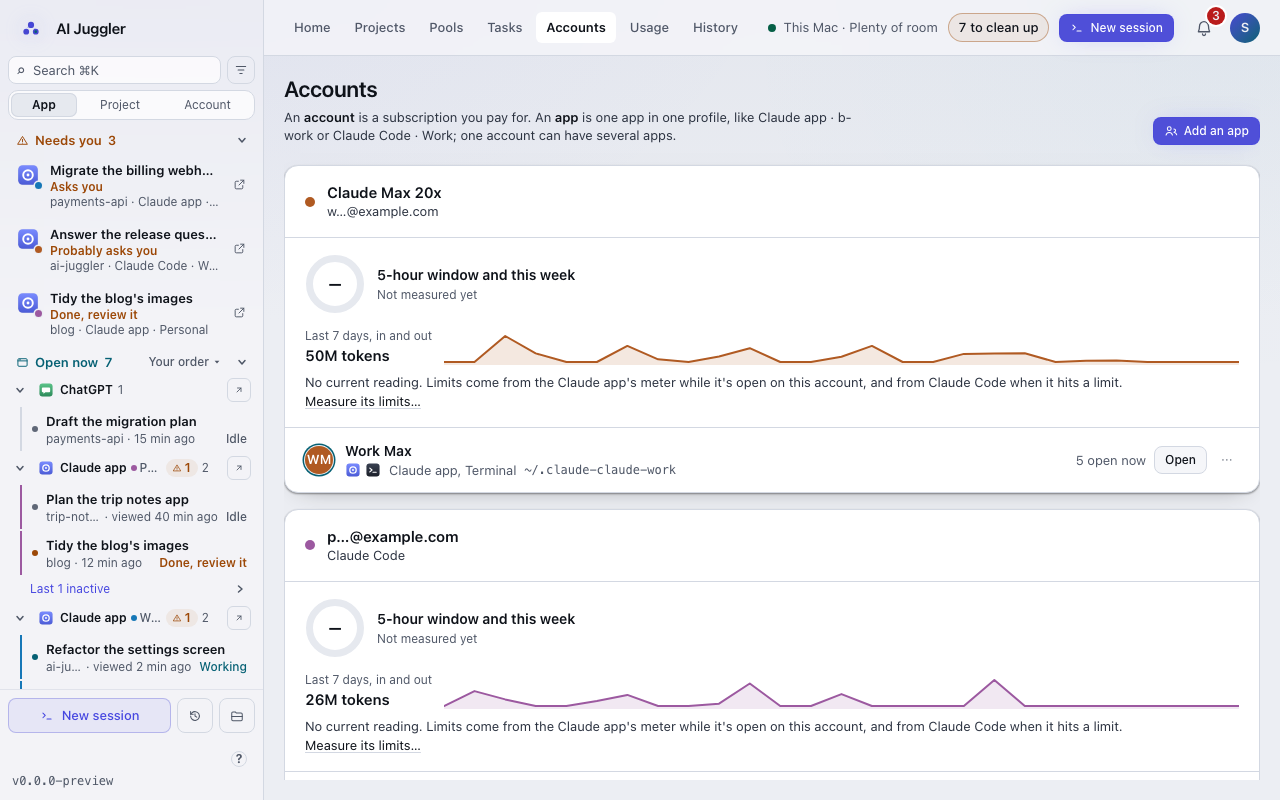
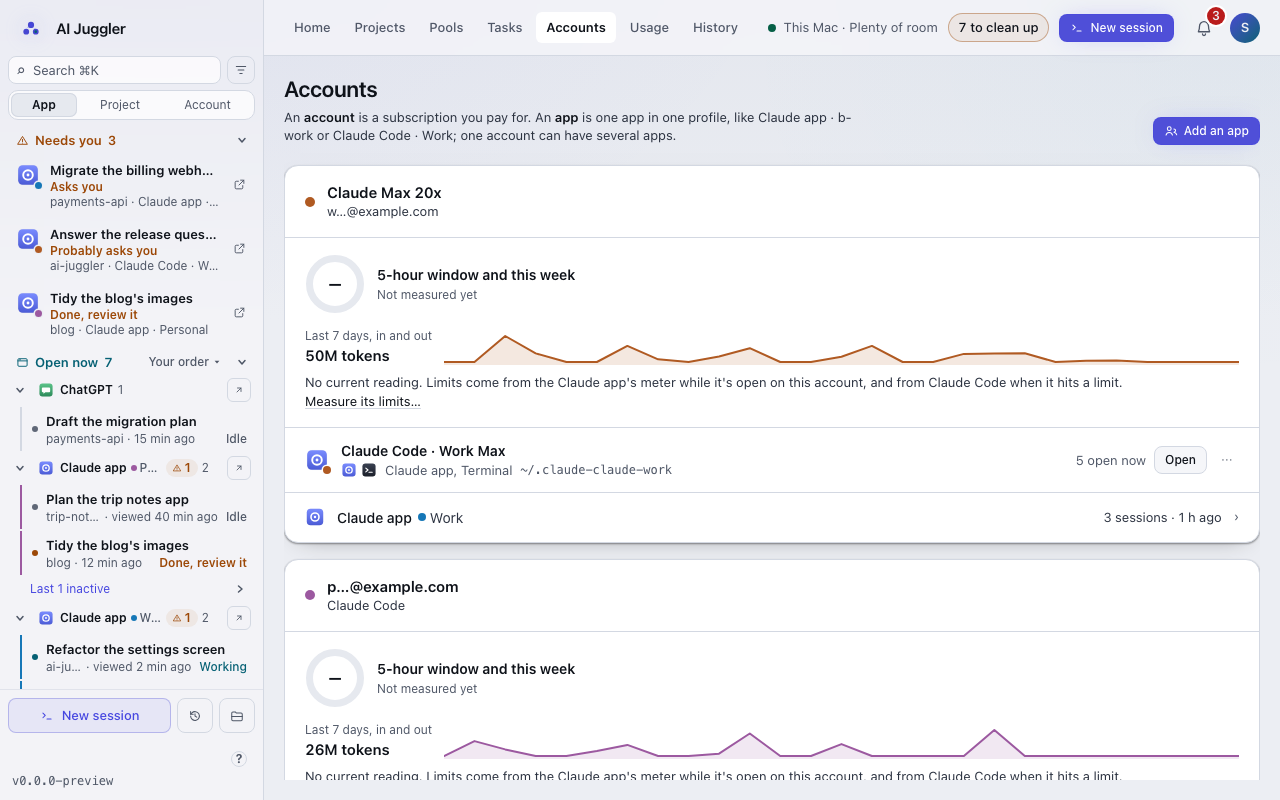
feat(e32/AJ-E3206): one mark per App on the Accounts screen; an account lists its Apps
Req. 2: an Accounts card's rows are its Apps. A folder's row is its CLI
App, "Claude Code · Work Max", marked with the app's icon and the
profile's dot as the rail and pages mark it, never initials; its name
opens the App's page. The desktop Apps signed in to the account (a
Claude app profile on one of its folders) follow, each a door to its
page.

diff --git a/ui/src/screens/accounts/ProfileRow.tsx b/ui/src/screens/accounts/ProfileRow.tsx
@@ -8,7 +8,8 @@
 import { AppIcon } from "../../components/AppIcon";
 import type { AppRef } from "../../lib/app-of";
 import { useState, type JSX } from "react";
-import { AccountAvatar } from "../../components/Avatar";
+import { ProfileBadge } from "../../components/ProfileBadge";
+import { appOfTool } from "../../lib/app-of";
 import { ToolMark } from "../../components/ToolMark";
 import { Button, Chip } from "../../components/primitives";
 import { useItemMenu } from "../../components/ItemMenu";
@@ -87,12 +88,19 @@ export function ProfileRow(props: ProfileRowProps): JSX.Element {
   return (
     <li className="flex flex-col" data-testid="profile-row" data-profile={account.id}>
       <div className="group flex flex-wrap items-center gap-3 px-5 py-3" {...menu.triggerProps}>
-        <AccountAvatar accountId={account.id} label={account.label} size={28} live={props.openNow > 0} />
+        {/* D-62 (AJ-E3206 req. 2): one mark per App, as everywhere: its
+            app's icon with its profile's dot, never initials. */}
+        <span className="relative inline-flex shrink-0" data-testid="profile-app-mark">
+          <AppIcon appId={appOfTool(account.provider).appId} appPid={null} name={appOfTool(account.provider).name} size={24} />
+          <span className="absolute -bottom-0.5 -right-0.5 flex">
+            <ProfileBadge name={account.label} size={8} ring="var(--color-surface)" />
+          </span>
+        </span>
         <div className="flex min-w-0 flex-1 flex-col">
           <span className="flex min-w-0 items-center gap-2">
             {service && <ToolMark tool={account.provider} size={13} className="text-muted" />}
-            <button type="button" onClick={props.onInspect} title={`Open ${name}`} className="truncate rounded text-body font-semibold outline-none hover:underline focus-visible:ring-1 focus-visible:ring-accent/60" data-testid="account-label">
-              {account.label}
+            <button type="button" onClick={props.onInspect} title={`Open ${name}'s page`} className="truncate rounded text-body font-semibold outline-none hover:underline focus-visible:ring-1 focus-visible:ring-accent/60" data-testid="account-label">
+              {name}
             </button>
             {account.is_default && (
               <span title="New sessions start with this app, unless a project picks its own" data-testid="account-default">

diff --git a/ui/src/screens/accounts/AccountCard.tsx b/ui/src/screens/accounts/AccountCard.tsx
@@ -4,6 +4,9 @@
  * plan, the renewal and the fee; its profiles share them. Profiles that
  * aren't signed in to anything sit last, under "Not signed in".
  */
+import { AccountAppRows } from "../../pages/subscription/AccountApps";
+import type { AccountApp } from "../../lib/account-items";
+import type { AppModel } from "../../lib/apps";
 import { useState, type JSX } from "react";
 import { Card, Chip } from "../../components/primitives";
 import { runwayOf } from "../../components/AccountRunway";
@@ -79,6 +82,8 @@ export type AccountCardProps = {
   all?: readonly SubscriptionInfo[];
   /** The accounts span more than one tool: the line names this one's. */
   toolWords?: boolean;
+  /** Every App (D-62): its desktop ones on this account get rows too. */
+  apps?: readonly AppModel[];
 };
 
 export function AccountCard(props: AccountCardProps): JSX.Element {
@@ -102,6 +107,10 @@ export function AccountCard(props: AccountCardProps): JSX.Element {
     sub.fee_usd != null ? `$${sub.fee_usd}/month` : null,
   ].filter(Boolean);
   const week = useWeekByProfile();
+  const folderIds = new Set(profiles.map((profile) => profile.id));
+  const desktop: AccountApp[] = (props.apps ?? [])
+    .filter((app) => app.kind === "desktop" && ((sub.account_id && app.accountId === sub.account_id) || (app.folder !== null && folderIds.has(app.folder.id))))
+    .map((app) => ({ app, sessions: app.place?.recent.length ?? 0, open: 0, lastMs: app.place?.seen_ms ?? 0 }));
   return (
     <Card className="@container overflow-hidden" data-testid="account-card" data-state={sub.state} data-service={service?.id}>
       <div className="flex flex-wrap items-center gap-3 border-b border-hairline px-5 py-4">
@@ -201,6 +210,13 @@ export function AccountCard(props: AccountCardProps): JSX.Element {
             />
           );
         })}
+        {/* D-62: the desktop Apps signed in to it (a Claude app profile on
+            one of its folders), each a door to its App page. */}
+        {desktop.length > 0 && (
+          <li className="px-3 py-2" data-testid="account-desktop-apps">
+            <AccountAppRows apps={desktop} now={props.now} compact />
+          </li>
+        )}
       </ul>
     </Card>
   );

diff --git a/ui/src/screens/Profiles.tsx b/ui/src/screens/Profiles.tsx
@@ -1,4 +1,5 @@
 import { RowPlaceholders } from "../components/Placeholder";
+import { useApps } from "../lib/apps";
 import { useState } from "react";
 import { Button, Card } from "../components/primitives";
 import { Field, Input, Modal } from "../components/form";
@@ -74,6 +75,7 @@ export function ProfilesScreen({
   const { all: conversations } = useConversations();
   const { inPlace, limits } = useToolCapabilities();
   const { accounts, profiles, subscriptions, refresh } = useAccountsData({ knownAccounts, knownProfiles, onError: setError });
+  const apps = useApps(accounts ?? []);
 
   const changed = async (words: string | null) => {
     setNotice(words);
@@ -159,6 +161,7 @@ export function ProfilesScreen({
                 key={sub.key}
                 subscription={sub}
                 all={grouped.map((group) => group.sub)}
+                apps={apps ?? undefined}
                 toolWords={new Set(grouped.map((group) => group.sub.tool)).size > 1}
                 profiles={rows}
                 recipes={profiles}

diff --git a/ui/src/screens/accounts/accounts-grouped.test.tsx b/ui/src/screens/accounts/accounts-grouped.test.tsx
@@ -89,7 +89,8 @@ describe("AJ-E2109 the Accounts screen", () => {
     // never by its Apps' names; the line says the rest, once.
     expect(cards.map((card) => card.querySelector("[data-testid='account-name']")?.textContent)).toEqual(["Acme", "Claude Max", "Not signed in"]);
     expect(cards[0]!.querySelector("[data-testid='account-line']")?.textContent).toBe("o…@work.com · Team");
-    expect(within(cards[0]!).getAllByTestId("account-label").map((n) => n.textContent)).toEqual(["Work", "Work 2", "Client"]);
+    // D-62: each row is an App, named by its tool and folder.
+    expect(within(cards[0]!).getAllByTestId("account-label").map((n) => n.textContent)).toEqual(["Claude Code · Work", "Claude Code · Work 2", "Claude Code · Client"]);
     expect(within(cards[0]!).getByTestId("account-profiles-count").textContent).toBe("3 apps share this account");
     // One runway per account, none for profiles that aren't signed in.
     expect(within(cards[0]!).getAllByTestId("account-runway")).toHaveLength(1);

diff --git a/ui/src/components/account-manage.test.tsx b/ui/src/components/account-manage.test.tsx
@@ -114,7 +114,7 @@ describe("AJ-E1501 the account card's menu", () => {
     await waitFor(() => expect(view.queryByTestId("rename-account")).toBeNull());
     expect(rename).toHaveBeenLastCalledWith("acc-copy", "Max (personal)", "Max");
     await waitFor(() =>
-      expect([...view.container.querySelectorAll("[data-testid='account-label']")].map((n) => n.textContent)).toEqual(["Mine", "Max (personal)"]),
+      expect([...view.container.querySelectorAll("[data-testid='account-label']")].map((n) => n.textContent)).toEqual(["Claude Code · Mine", "Claude Code · Max (personal)"]),
     );
     expect(view.getByTestId("accounts-notice").textContent).toBe("Renamed to Max (personal).");
     expect(view.onAccountsChanged).toHaveBeenCalled();

diff --git a/docs/qa/evidence/_gallery/99-account-page/critique.md b/docs/qa/evidence/_gallery/99-account-page/critique.md
@@ -1,4 +1,4 @@
-<!-- captures: 06310ee6695e -->
+<!-- captures: bfdfb5e29506 -->
 # 99-account-page: an Account's own page, and the Accounts screen that leads to it (0.4, D-62, AJ-E3205)
 
 Design critique (D-57, AJ-E2814). First critique of this family, written at 0.4 from its captures.
@@ -7,7 +7,7 @@ Design critique (D-57, AJ-E2814). First critique of this family, written at 0.4 
 
 The audit: an account (a subscription) had no page; its name was its folders' names ("Work, Work 2 and 1 more"), every card carried a lone "C" that told Claude Code from Codex for no one, and limits, renewal and fee were set per folder. Four screens, both themes, on the places desktop: the Work Max folder signed in to a Max 20x plan, used by Claude Code in a terminal and by the Claude app's Work profile; a Personal folder on another sign-in.
 
-**accounts-screen.** Each card's title is the Account's own name: "Claude Max 20x" (its plan; no team, no name given), "p…@example.com" (no plan either). Under it one line with what the name doesn't already say (the masked email, the renewal, the fee). No tool letter in the header: the colour dot (its colour in the charts) is the only mark. With accounts on one tool the line doesn't name the tool; on two tools it would. The title is a button with "Open Claude Max 20x's page".
+**accounts-screen.** Each card's title is the Account's own name: "Claude Max 20x" (its plan; no team, no name given), "p…@example.com" (no plan either). Under it one line with what the name doesn't already say (the masked email, the renewal, the fee). No tool letter in the header: the colour dot (its colour in the charts) is the only mark. With accounts on one tool the line doesn't name the tool; on two tools it would. The title is a button with "Open Claude Max 20x's page". Under the limits, one row per App (AJ-E3206 req. 2): "Claude Code · Work Max", its folder's CLI App, marked with the app's icon and the profile's dot as the rail marks it (no "WM" initials), with where its sessions are open and its folder; then "Claude app · Work", the desktop App signed in to the same plan, "3 sessions · 1 h ago" and a chevron to its page.
 
 **account-overview.** "Account" over the name, a tile with the account's chart colour, "Claude Max 20x", then "w…@example.com · 2 apps · 5 open", and New session at the right. Tabs: Overview, Apps 2, Sessions 6, Projects 2, Usage, Settings. Limits first (the account is where limits live), then "Its apps, they share these limits": Claude Code · Work Max and Claude app · Work, each with "3 open · 3 in all" and a chevron to the App's page. Then Open now and Last used across both Apps; each row names its App ("in Claude app · Work", "in Terminal") and not the account. Then Projects. At 1024 the cards stack the same, the rows cut with an ellipsis.
 
